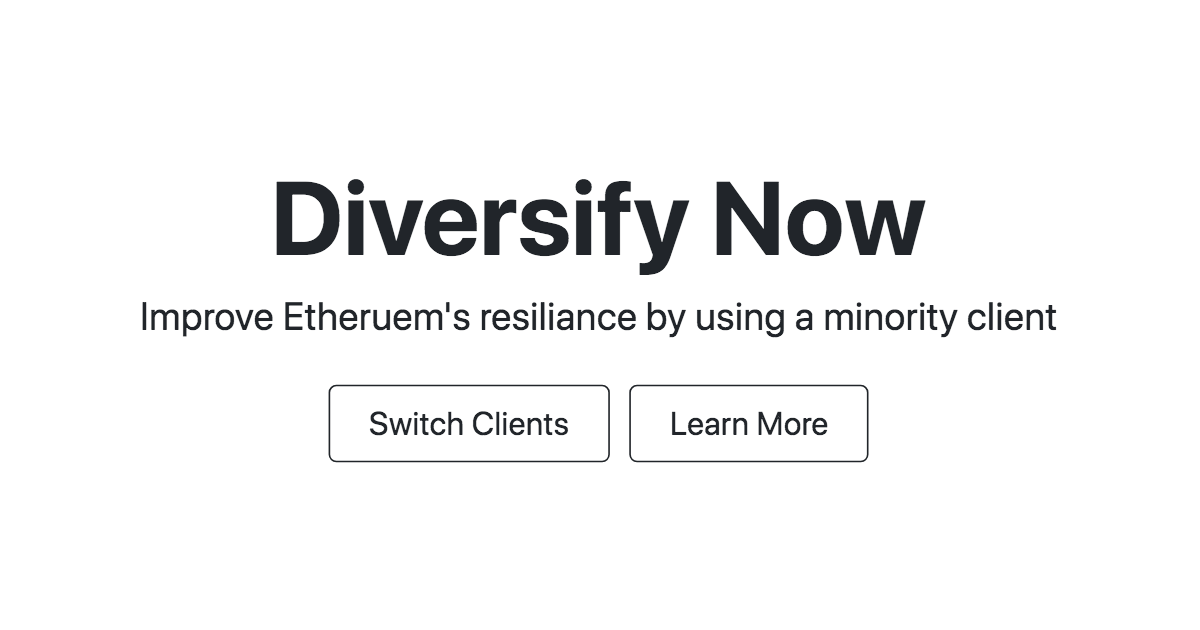
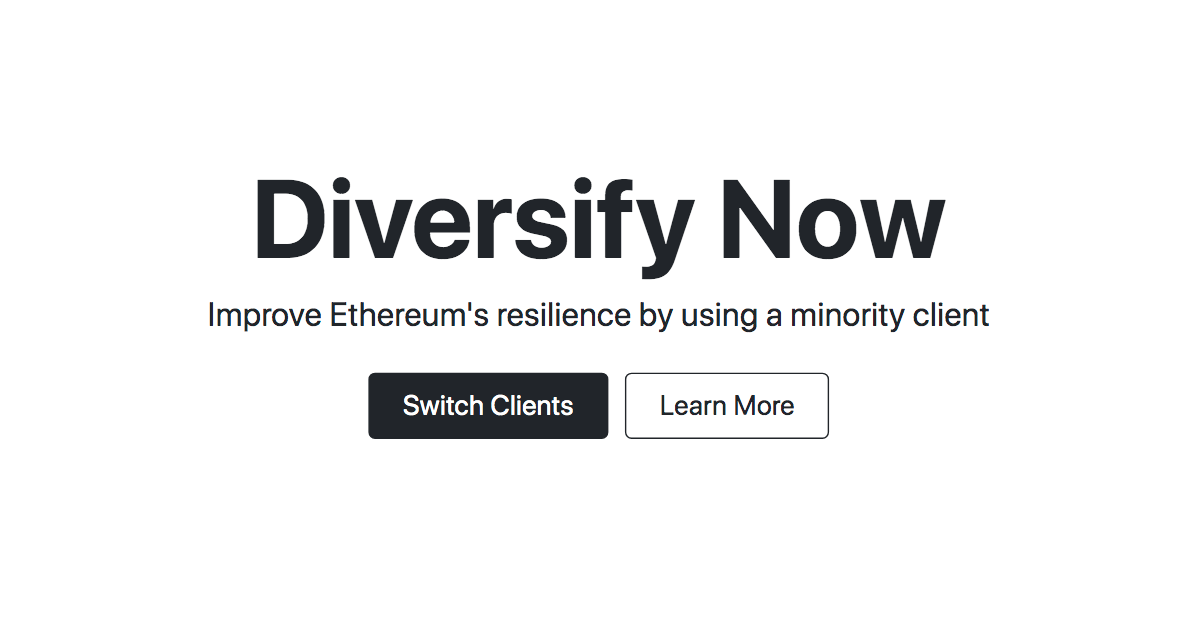
fix grammar and update cover

diff --git a/client-fingerprinting.md b/client-fingerprinting.md
@@ -9,7 +9,7 @@ subheader:
 
 There's no inheret way to know exactly what client a validator is running. Researchers use other metrics to make deductions on which client a validator is most likely operating. The problem is they cannot distinguish with 100% certainty which client a validator is running.
 
-Miga Labs use a crawler to count beacon nodes and their self-reported identity. However, this means that validators sharing a node are counted only once and nodes with fewer validators have a greater influence on the estimate. ([Miga Labs {{site.data.icons.new_tab}}](https://migalabs.es/))
+Miga Labs uses a crawler to count beacon nodes and their self-reported identity. However, this means that validators sharing a node are counted only once and nodes with fewer validators have a greater influence on the estimate. ([Miga Labs {{site.data.icons.new_tab}}](https://migalabs.es/))
 
 Another method developed by Lighthouse's Michael Sproul is to analyze each client's block proposal style as described in [this tweet thread](https://twitter.com/sproulM_/status/1440512518242197516).
 

diff --git a/index.md b/index.md
@@ -7,7 +7,7 @@ layout: default
  <div class="px-4 py-5 my-5 text-center">
     <h1 class="display-1 fw-bold mt-5">Diversify Now</h1>
     <div class="col-lg-7 mx-auto">
-      <p class="h4 fw-normal mb-4">Improve Ethereum's resiliance by using a minority client</p>
+      <p class="h4 fw-normal mb-4">Improve Ethereum's resilience by using a minority client</p>
       <a href="#switch" class="btn btn-dark btn-lg px-4 m-1">Switch Clients</a>
       <a href="#why" class="btn btn-outline-dark btn-lg px-4 m-1">Learn More</a>
     </div>
